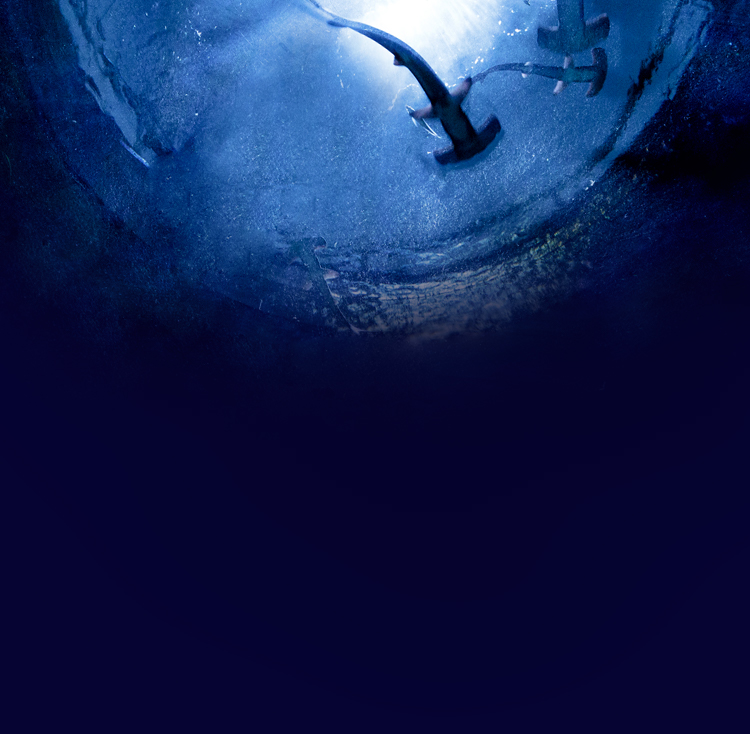
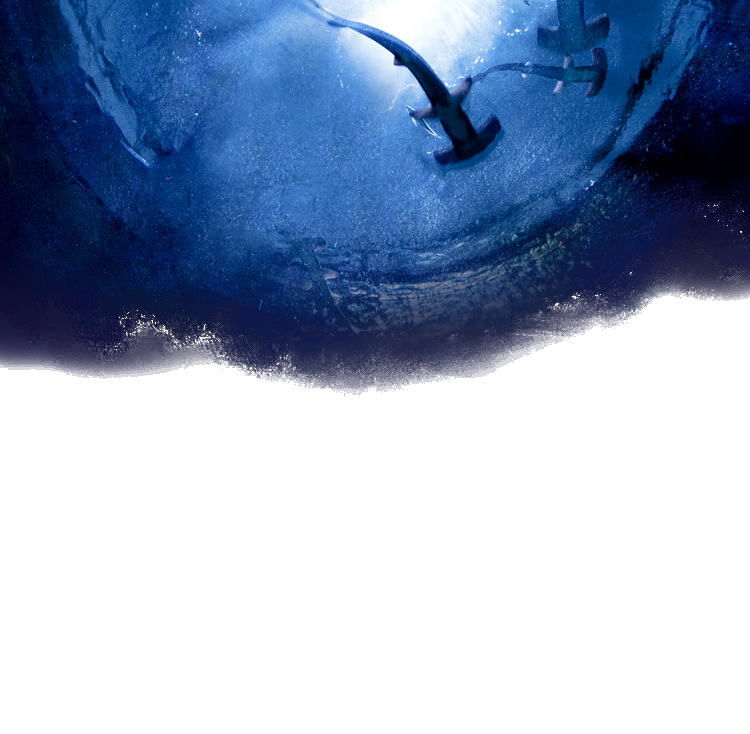
fix windows ver

diff --git a/html/accsess/index.html b/html/accsess/index.html
@@ -1,0 +1,64 @@
+<!DOCTYPE html>
+<html lang="ja">
+<head>
+  <meta charset="UTF-8">
+  <meta name="viewport" content="width=device-width, initial-scale=1.0">
+  <link rel="stylesheet" href="../assets/css/reset.css">
+  <link rel="stylesheet" href="../assets/css/common.css">
+  <link rel="stylesheet" href="">
+  <link rel="shortcut icon" href="../assets/images/favicon.ico">
+  <link rel="apple-touch-icon" href="../assets/images/apple-touch-icon-180x180.png">
+  <link rel="preconnect" href="https://fonts.googleapis.com">
+  <link rel="preconnect" href="https://fonts.gstatic.com" crossorigin>
+  <link href="https://fonts.googleapis.com/css2?family=Zen+Kaku+Gothic+New:wght@400;500;700&display=swap" rel="stylesheet">
+  <title>海藻水族館 | アクセス</title>
+</head>
+<body>
+  <header>
+    <div class="inner">
+      <div class="flex header">
+        <a href="../index.html"  class="header_logo"><img src="../assets/images/logo.png" alt="logo"></a>
+        <nav>
+          <ul class="flex">
+            <li><a href="../about/index.html">海藻水族館の魅力</a></li>
+            <li><a href="../guide/index.html">館内のご案内</a></li>
+            <li><a href="../news/index.html">イベント情報</a></li>
+            <li><a href="../ticket/index.html">料金・チケット</a></li>
+            <li class="current"><a>アクセス</a></li>
+          </ul>
+        </nav>
+      </div>
+    </div>
+  </header>
+  <main>
+
+  </main>
+  <footer class="footer">
+    <div class="inner">
+      <p class="footer_logo"><img src="../assets/images/logo_footer.png" alt="logo"></p>
+      <div class="footer_text">
+        <ul class="flex footer_nav">
+          <li><a href="../about/index.html">海藻水族館の魅力</a></li>
+          <li><a href="../guide/index.html">館内のご案内</a></li>
+          <li><a href="../news/index.html">イベント情報</a></li>
+          <li><a href="../ticket/index.html">料金・チケット</a></li>
+          <li class="current"><a>アクセス</a></li>
+        </ul>
+        <ul class="flex sns">
+          <li><a href="https://www.instagram.com/"><img src="../assets/images/instagram_icon.png" alt="instagram"></a></li>
+          <li><a href="https://twitter.com/X?ref_src=twsrc%5Egoogle%7Ctwcamp%5Eserp%7Ctwgr%5Eauthor"><img src="../assets/images/x_icon.png" alt="X"></a></li>
+          <li><a href="https://line.me/ja/"><img src="../assets/images/line_icon.png" alt="LINE"></a></li>
+        </ul>
+        <ul class="flex footer_list">
+          <li><a>会社概要</a></li>
+          <li><a>お問い合わせ</a></li>
+        </ul>
+        <p class="copy"><small>&copy;2023 海藻水族館</small></p>
+      </div>
+    </div>
+  </footer>
+  <div class="top_btn">
+    <a href="#"><img src="../assets/images/top_btn.png" alt="トップへ戻る"></a>
+  </div>
+</body>
+</html>

diff --git a/html/assets/css/top.css b/html/assets/css/top.css
@@ -1,15 +1,16 @@
 @charset "utf-8";
 
 body{
-    background: conic-gradient(from 180deg at 50% 50%, #05032B 90.22520899772644deg, #050430 179.79620575904846deg, #05032B 269.37427282333374deg);}
+    background: conic-gradient(from 180deg at 50% 50%, #05032B 90.22520899772644deg, #050430 179.79620575904846deg, #05032B 269.37427282333374deg);
+}
 /* ヘッダー */
 .top_img {
     top: 0;
     right: 0;
-    width: 750px;
-    height: 734px;
+    width: 650px;
+    height: 100%;
     position: absolute;
-    z-index: -1;
+
 }
 /* メインビジュアル */
 .mv {
@@ -24,6 +25,7 @@ body{
 .mv_text {
     padding-top: 250px;
     text-align: center;
+    z-index: 1;
 }
 .sub_title {
     font-size: 26px;
@@ -58,6 +60,22 @@ body{
 }
 .box:last-child {
     padding-right: 0;
+}
+.program a {
+    padding-left: 77px;
+    margin-left: -77px;
+}
+.program::before {
+    background: url("../images/calendar_icon.png")no-repeat;
+    content: "";
+    width: 77px;
+    height: 77px;
+}
+.program:hover a {
+    opacity: 0.7;
+}
+.program:hover::before {
+    opacity: 0.7;
 }
 .mv_ttl {
     text-align: center;
@@ -121,7 +139,6 @@ body{
     position: relative;
 }
 .news_box::after {
-    /* background: url("../images/news_btn.png") no-repeat; */
     width: 23px;
     height: 23px;
     content: "";

diff --git a/html/index.html b/html/index.html
@@ -28,7 +28,7 @@
               <li><a href="access/index.html"><span>アクセス</span></a></li>
             </ul>
           </nav>
-          <!-- ７６８ｐｘ以下でハンバーガーメニューに -->
+          <!-- 768px以下でハンバーガーメニューに -->
           <div class="hamburger"><span></span><span></span><span></span></div>
         </div>
         <div class="top_img">
@@ -51,9 +51,8 @@
           <p class="mv_ttl">営業時間</p>
           <p class="text_box">9:00 ~ 18:00</p>
         </div>
-        <div class="flex box">
-          <a><img src="assets/images/calendar_icon.png" alt="calendar_icon"></a>
-          <p class="text_box2">今日の<br>プログラム</p>
+        <div  class="program flex box">
+          <a href="news/index.html" class="text_box2">今日の<br>プログラム</a>
         </div>
       </div>
     </div>

diff --git a/html/assets/css/common.css b/html/assets/css/common.css
@@ -61,17 +61,17 @@ a {
     padding-top: 64px;
 }
 .nav_ul li{
-    margin: 0 8px;
+    margin: 0 5px;
     position: relative;
-    padding: 20px 25px;
+    padding: 20px 22px;
 }
 .header nav ul li a {
     font-weight: 700;
-    letter-spacing: 2px;
+    letter-spacing: 1px;
     font-size: 20px;
     display: block;
-    padding: 20px 25px;
-    margin: -20px -25px;
+    padding: 20px 22px;
+    margin: -20px -22px;
 }
 /*線の基点位置*/
 .nav_ul li::before,

diff --git a/html/assets/css/ticket.css b/html/assets/css/ticket.css
@@ -62,7 +62,7 @@
     content: "";
     padding: 169px 20px;
     position: absolute;
-    left: 10vw;
+    left: 100px;
 }
 .passport::after {
     background: url("../images/passport_right.png") no-repeat;
@@ -71,7 +71,7 @@
     content: "";
     padding: 169px 20px;
     position: absolute;
-    right: 10vw;
+    right: 70px;
     top: 916px;
 }
 .passport_btn:hover {
